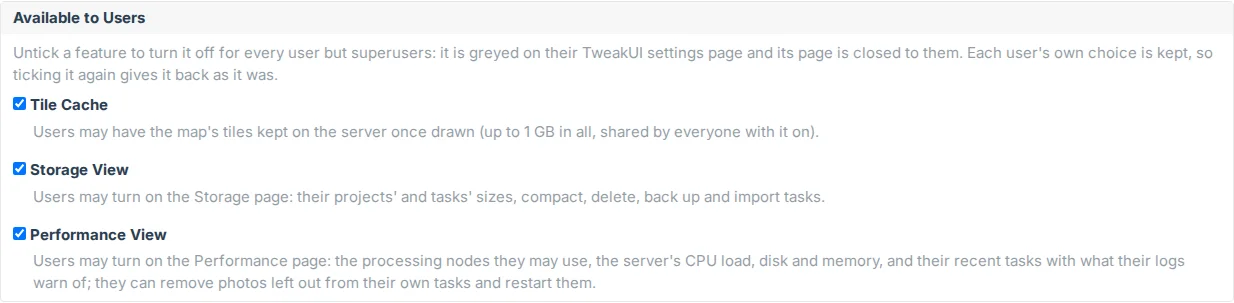
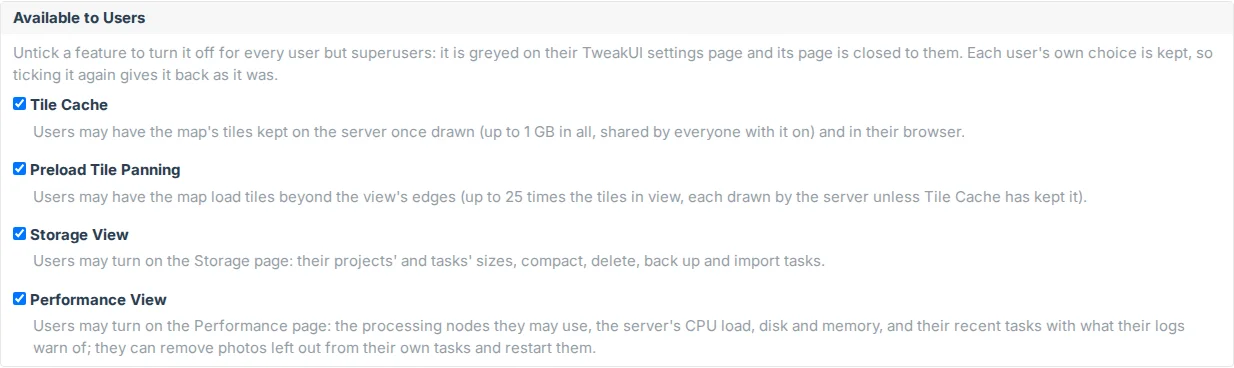
Administration: Preload Tile Panning can be withheld from users
Without Tile Cache, each rest at 200% has WebODM draw up to 25 times the tiles
in view, so superusers may withhold it as they can Tile Cache.

diff --git a/tweakui/tests/test_tweakui.py b/tweakui/tests/test_tweakui.py
@@ -2295,7 +2295,8 @@ ACCESS_PAGE = "/plugins/tweakui/admin/"
 
 
 class TestAccess(TweakUITestCase):
-    """Administration > TweakUI: superusers withhold Tile Cache, Storage View and Performance View from users (access.py)"""
+    """Administration > TweakUI: superusers withhold Tile Cache, Preload Tile Panning, Storage View and Performance View
+    from users (access.py)"""
 
     def setUp(self):
         super().setUp()
@@ -2325,14 +2326,14 @@ class TestAccess(TweakUITestCase):
         strict.login(username="testsuperuser", password="test1234")
         res = strict.patch(ACCESS, json.dumps({"storage_view": False}), content_type="application/json")
         self.assertEqual(res.status_code, status.HTTP_403_FORBIDDEN)
-        self.assertEqual(self.admin.get(ACCESS).json(), {"tile_cache": True, "storage_view": True, "performance_view": True})
+        self.assertEqual(self.admin.get(ACCESS).json(), {"tile_cache": True, "load_ahead_on": True, "storage_view": True, "performance_view": True})
 
     def test_both_are_available_until_withheld_and_only_known_features_take_a_bool(self):
-        self.assertEqual(self.withhold(storage_view=False), {"tile_cache": True, "storage_view": False, "performance_view": True})
+        self.assertEqual(self.withhold(storage_view=False), {"tile_cache": True, "load_ahead_on": True, "storage_view": False, "performance_view": True})
         for bad in ({"theme": False}, {"performance_view": "no"}, ["storage_view"]):
             res = self.admin.patch(ACCESS, json.dumps(bad), content_type="application/json")
             self.assertEqual(res.status_code, status.HTTP_400_BAD_REQUEST, bad)
-        self.assertEqual(self.withhold(storage_view=True), {"tile_cache": True, "storage_view": True, "performance_view": True})
+        self.assertEqual(self.withhold(storage_view=True), {"tile_cache": True, "load_ahead_on": True, "storage_view": True, "performance_view": True})
         body = self.admin.get(ACCESS_PAGE).content.decode()
         self.assertRegex(body, r'data-access="storage_view" checked')
 
@@ -2358,6 +2359,17 @@ class TestAccess(TweakUITestCase):
         self.assertRegex(body, r'data-setting="storage_view">')
         body = self.admin.get("/plugins/tweakui/").content.decode()
         self.assertNotIn("Turned off by your administrator.", body)
+
+    def test_withheld_preload_tile_panning_is_off_on_the_map_and_greyed_but_its_distance_is_kept(self):
+        self.patch({"load_ahead_on": True, "load_ahead": 150})
+        self.withhold(load_ahead_on=False)
+        settings = self.script_settings(self.client)
+        self.assertEqual((settings["load_ahead_on"], settings["load_ahead"]), (False, 150))
+        body = self.client.get("/plugins/tweakui/").content.decode()
+        self.assertRegex(body, r'data-setting="load_ahead_on" disabled>')
+        self.assertEqual(self.patch({"load_ahead_on": True}, self.admin).json()["load_ahead_on"], True)
+        self.withhold(load_ahead_on=True)
+        self.assertEqual(self.script_settings(self.client)["load_ahead_on"], True)
 
     def test_a_withheld_feature_s_page_and_api_answer_403_to_users_and_staff_but_not_superusers(self):
         project = Project.objects.create(owner=User.objects.get(username="testuser"), name="Mine")

diff --git a/tweakui/features.py b/tweakui/features.py
@@ -224,7 +224,10 @@ CATEGORIES = [
                            "new level's tiles still fill in as they arrive. Each uses some of the browser's memory: "
                            "the estimate under "
                            "Distance is for a window of this size."),
-                    scripts=["map_tiles.js"], parts=[
+                    scripts=["map_tiles.js"], admin_label=_("Preload Tile Panning"),
+                    admin_help=_("Users may have the map load tiles beyond the view's edges (up to 25 times the tiles "
+                                 "in view, each drawn by the server unless Tile Cache has kept it)."),
+                    parts=[
                 Setting("load_ahead", 25, _("Distance"),
                         _("How far beyond each edge, as a share of the view's width and height."),
                         number=(25, 200, 25), unit="%", estimate="load_ahead"),

diff --git a/upcoming-changes.md b/upcoming-changes.md
@@ -3,7 +3,6 @@
 ## Phases (current and upcoming)
 
 **Up next** (from the 2D map review, 2026-11-11, decided by the user; see "2D map review")
-- **Administration: withhold Preload Tile Panning** — as Tile Cache can be: up to 25 times the tiles drawn per rest.
 - **Small devices: a cap** — where the browser reports 4 GB or less or the screen is under 768 px wide, Preload Tile
   Panning goes at most 100% and Keep More Tiles at most 50%.
 - **Leaflet check** — the selector check also reports a WebODM whose Leaflet isn't 1.3.1 (map_tiles.js overrides
@@ -22,6 +21,12 @@
 - **Diagnostic: Logs View** — dropped by the user (2026-11-09); see "Diagnostic: Logs View (dropped)".
 
 **Done**
+- **Administration: withhold Preload Tile Panning** (2D map review, decided 2026-11-11) — branch
+  `admin-withhold-preload`: `admin_label` and `admin_help` on `load_ahead_on` (`features.py`), so it is a checkbox
+  under Administration > TweakUI > Available to Users, between Tile Cache and Storage View; withheld, it is off on
+  the map and greyed (Distance too) on the settings page, the user's choice kept. Test `test_tweakui.py`
+  (`TestAccess`); docs `administration.md`, `map-2d.md`, CHANGELOG, the `admin` screenshot. Checked live on 4.0.0's
+  Administration > TweakUI.
 - **Basemap: Fade-in Speed** (2D map review, decided 2026-11-11) — branch `basemap-fade-in`: `map_tiles.js`
   (`isBasemap`, `tweakBasemap`, `basemapsOf`: the basemaps are the map hook's `controls.autolayers.mapConfig.baseLayers`,
   a Custom one the tile layer its layer group holds; only the fade changes on them, no redraw), tests in

diff --git a/CHANGELOG.md b/CHANGELOG.md
@@ -34,7 +34,8 @@
   25% to 100%, columns from the view's width and rows from its height), and how long a tile takes to fade in
   (Duration, 0 to 400 ms, on the basemap too). Preload Tile Panning loads the tiles in view first, so the extra tiles never hold them up, then
   rings of a quarter of the view, nearest first; it helps panning only, not zooming. Under Distance and Amount, an estimate of the browser memory their
-  tiles take per layer for a window of that size, updated as the slider moves.
+  tiles take per layer for a window of that size, updated as the slider moves. An administrator can withhold Preload Tile Panning on
+  Administration > TweakUI.
 - **Fewer Tile Requests** (Speed): while zooming, the map asks for tiles once the zoom ends; it can help on a slow
   or unreliable connection to the server.
 
@@ -177,7 +178,7 @@ just above About in the side menu), except the theme menu. Experimental; runs on
 
 ### Administration
 
-- Administration > TweakUI (superusers only): Available to Users, to withhold Storage View or Performance View from
+- Administration > TweakUI (superusers only): Available to Users, to withhold Tile Cache, Preload Tile Panning, Storage View or Performance View from
   every user but superusers; each user's own choice is kept for when it is given back.
 
 ### For developers

diff --git a/docs/map-2d.md b/docs/map-2d.md
@@ -151,6 +151,8 @@ work with or without Tile Cache, which makes the extra tiles cheaper for the ser
   before has loaded, so only a few wait at any time and the server isn't kept busy with far tiles when you move. That
   matters most for a layer whose tiles are slow to draw, such as DJI Thermal's thermal layer. It helps panning
   only: it loads the zoom level you are at, so after you zoom, the new level's tiles still fill in as they arrive.
+  An administrator can withhold it from users on [Administration > TweakUI](administration#available-to-users),
+  since without Tile Cache the server draws every extra tile.
 - **Keep More Tiles**, with **Amount** (25% to 100%, in steps of 25%; 50% when first ticked). WebODM keeps 2 rows of
   tiles beyond what it has loaded, on every side, and drops the rest as they leave. On a high-resolution screen,
   where WebODM uses tiles half the size, that is only a few hundred pixels, so panning back shows blank tiles while

diff --git a/docs/administration.md b/docs/administration.md
@@ -11,8 +11,8 @@ them. The page has two sections: [Available to Users](#available-to-users) and
 
 ### Available to Users
 
-**Available to Users** has a checkbox for each feature an administrator may withhold: **Tile Cache** (2D Map),
-**Storage View** and **Performance View**. All are ticked when TweakUI is installed, so users have them unless a superuser unticks them.
+**Available to Users** has a checkbox for each feature an administrator may withhold: **Tile Cache** and
+**Preload Tile Panning** (2D Map), **Storage View** and **Performance View**. All are ticked when TweakUI is installed, so users have them unless a superuser unticks them.
 Each change is saved at once.
 
 When a feature is unticked, for every user but superusers (staff included):
